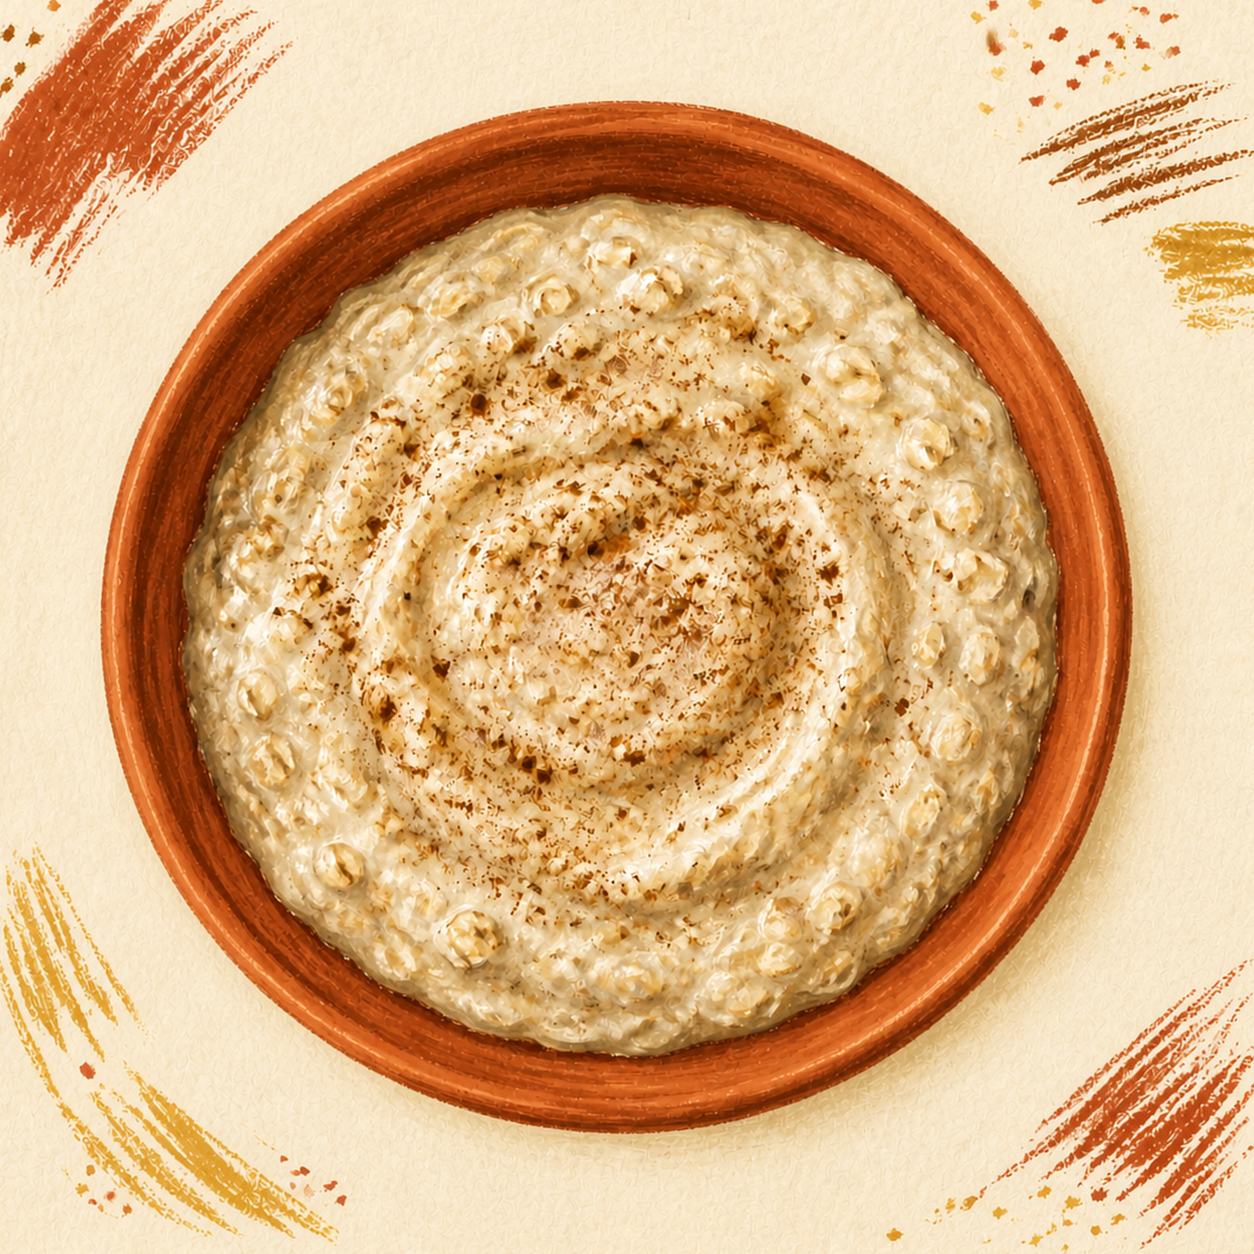
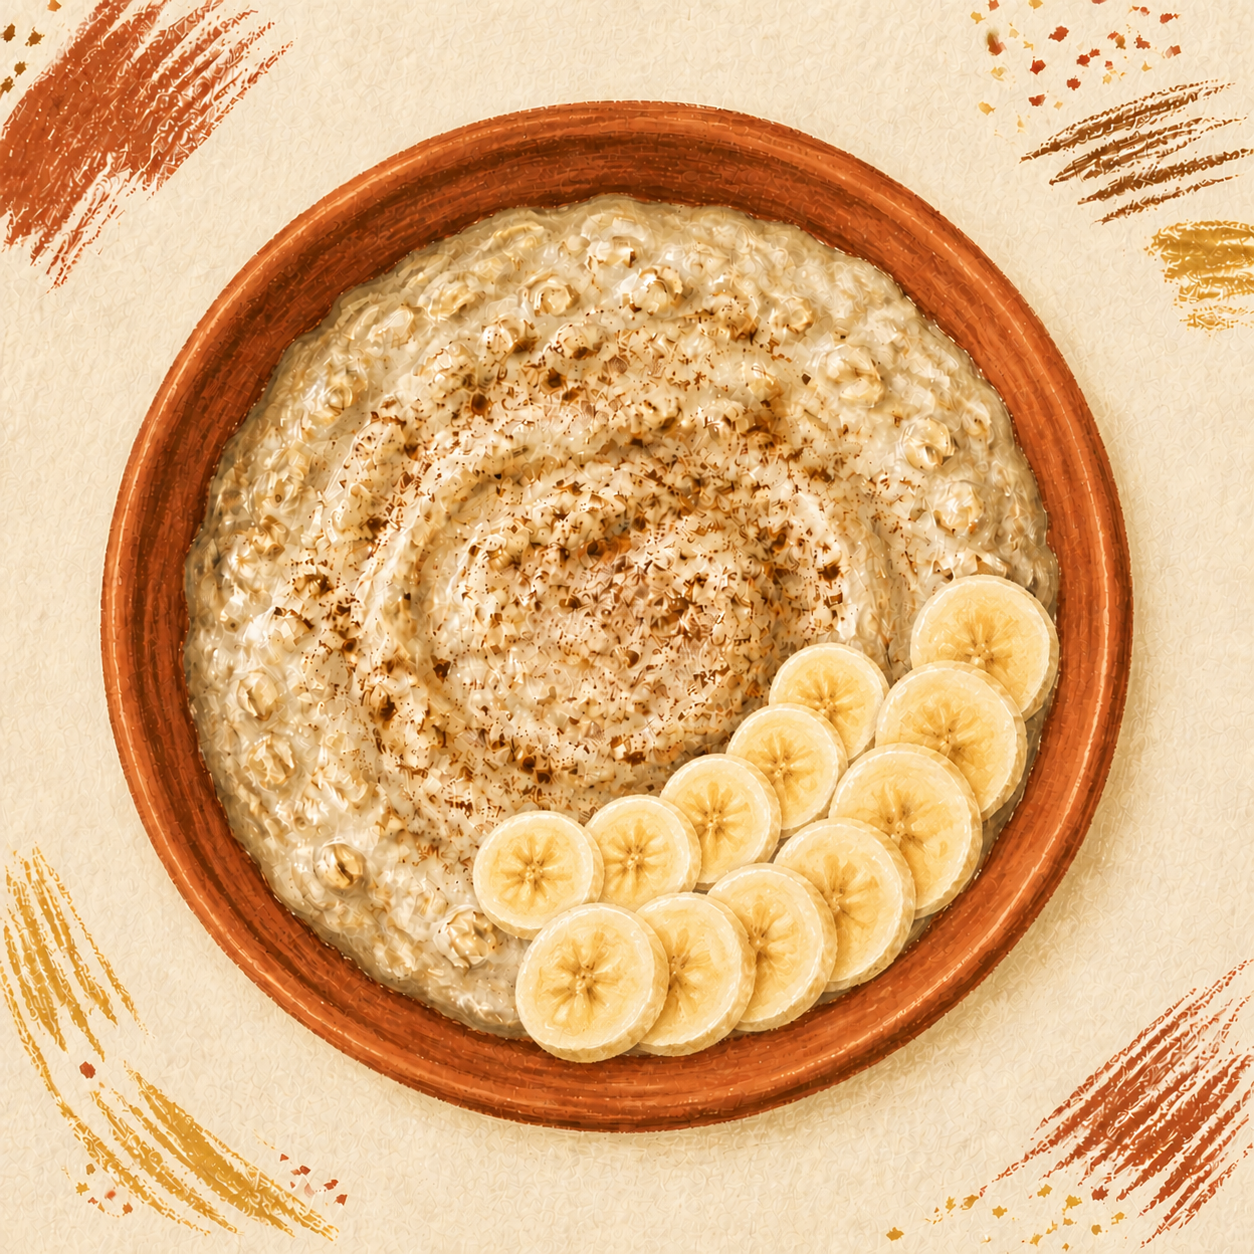
Refine recipe pages and search layout

diff --git a/src/components/RecipeSearch.tsx b/src/components/RecipeSearch.tsx
@@ -51,33 +51,34 @@ export default function RecipeSearch({ cards, searchPlaceholder, noResults, minu
 
   return (
     <div>
-      <div className="relative ml-auto w-[min(340px,100%)]">
-        <span className="absolute left-4 top-1/2 flex -translate-y-1/2 text-accent-700">
-          <svg
-            viewBox="0 0 24 24"
-            width="16"
-            height="16"
-            fill="none"
-            stroke="currentColor"
-            strokeWidth="2.75"
-            strokeLinecap="round"
-            strokeLinejoin="round"
-          >
-            <circle cx="11" cy="11" r="7"></circle>
-            <line x1="21" y1="21" x2="16.65" y2="16.65"></line>
-          </svg>
-        </span>
-        <input
-          type="text"
-          value={query}
-          onChange={(e) => setQuery(e.target.value)}
-          placeholder={searchPlaceholder}
-          aria-label={searchPlaceholder}
-          className="w-full rounded-xl border-[1.5px] border-ink bg-surface py-2 pl-10 pr-3 text-sm"
-        />
+      <div className="mt-8 grid grid-cols-[repeat(auto-fit,minmax(min(420px,100%),1fr))] items-end gap-4">
+        <h2 className="m-0 font-heading text-xl text-ink">{recipeHeading}</h2>
+        <div className="relative w-full">
+          <span className="absolute left-4 top-1/2 flex -translate-y-1/2 text-accent-700">
+            <svg
+              viewBox="0 0 24 24"
+              width="16"
+              height="16"
+              fill="none"
+              stroke="currentColor"
+              strokeWidth="2.75"
+              strokeLinecap="round"
+              strokeLinejoin="round"
+            >
+              <circle cx="11" cy="11" r="7"></circle>
+              <line x1="21" y1="21" x2="16.65" y2="16.65"></line>
+            </svg>
+          </span>
+          <input
+            type="text"
+            value={query}
+            onChange={(e) => setQuery(e.target.value)}
+            placeholder={searchPlaceholder}
+            aria-label={searchPlaceholder}
+            className="w-full rounded-lg border-[1.5px] border-ink bg-surface py-2 pl-10 pr-3 text-sm"
+          />
+        </div>
       </div>
-
-      <h2 className="mb-2 mt-8 font-heading text-xl text-ink/75">{recipeHeading}</h2>
 
       {results.length === 0 ? (
         <p className="py-14 text-center opacity-70">{noResults}</p>
@@ -87,7 +88,7 @@ export default function RecipeSearch({ cards, searchPlaceholder, noResults, minu
             <a
               key={card.href}
               href={card.href}
-              className="flex items-stretch gap-4 rounded-2xl bg-surface p-4 text-ink no-underline"
+              className="flex items-stretch gap-4 rounded-lg bg-surface p-4 text-ink no-underline"
             >
               {card.image ? (
                 <img
@@ -96,10 +97,10 @@ export default function RecipeSearch({ cards, searchPlaceholder, noResults, minu
                   width={card.image.width}
                   height={card.image.height}
                   loading="lazy"
-                  className="h-[170px] w-[150px] flex-none rounded-[14px] object-cover"
+                  className="h-[170px] w-[150px] flex-none rounded-lg object-cover"
                 />
               ) : (
-                <div className="grid h-[170px] w-[150px] flex-none place-content-center rounded-[14px] bg-accent-2-100 p-3 text-center">
+                <div className="grid h-[170px] w-[150px] flex-none place-content-center rounded-lg bg-accent-2-100 p-3 text-center">
                   <span className="font-heading text-base text-ink/40">{card.title}</span>
                 </div>
               )}
@@ -108,14 +109,14 @@ export default function RecipeSearch({ cards, searchPlaceholder, noResults, minu
                 <p className="m-0 text-sm text-ink/75">{card.summary}</p>
                 <div className="mt-auto flex flex-wrap items-center gap-2">
                   {card.origin && (
-                    <span className="rounded-[10px] bg-accent-2 px-3 py-1 text-[11.5px] font-semibold text-ink">
+                    <span className="rounded-lg bg-accent-2 px-3 py-1 text-[11.5px] font-semibold text-ink">
                       {card.origin}
                     </span>
                   )}
-                  <span className="rounded-[10px] border-[1.5px] border-ink px-3 py-1 text-[11.5px] font-semibold text-ink">
+                  <span className="rounded-lg border-[1.5px] border-ink px-3 py-1 text-[11.5px] font-semibold text-ink">
                     {prep}: {card.prepTime} {minutes}
                   </span>
-                  <span className="rounded-[10px] border-[1.5px] border-ink px-3 py-1 text-[11.5px] font-semibold text-ink">
+                  <span className="rounded-lg border-[1.5px] border-ink px-3 py-1 text-[11.5px] font-semibold text-ink">
                     {total}: {card.totalTime} {minutes}
                   </span>
                 </div>

diff --git a/src/components/IngredientList.tsx b/src/components/IngredientList.tsx
@@ -26,7 +26,7 @@ export default function IngredientList({ ingredients, servings, labels }: Props)
   let lastGroup: string | undefined;
 
   return (
-    <div className="rounded-2xl bg-surface p-6 shadow-elev-sm">
+    <div className="rounded-lg bg-surface p-6 shadow-elev-sm">
       <div className="flex flex-wrap items-center justify-between gap-3">
         <h2 className="m-0 font-heading text-[26px]">{labels.heading}</h2>
         <div className="flex items-center gap-2">
@@ -36,7 +36,7 @@ export default function IngredientList({ ingredients, servings, labels }: Props)
             onClick={() => change(-1)}
             disabled={count <= servings.min}
             aria-label="-"
-            className="grid h-9 w-9 cursor-pointer place-content-center rounded-xl border-[1.5px] border-ink text-ink hover:bg-accent-100 disabled:cursor-not-allowed disabled:opacity-45"
+            className="grid h-9 w-9 cursor-pointer place-content-center rounded-lg border-[1.5px] border-ink text-ink hover:bg-accent-100 disabled:cursor-not-allowed disabled:opacity-45"
           >
             <svg viewBox="0 0 24 24" width="14" height="14" fill="none" stroke="currentColor" strokeWidth="2.75" strokeLinecap="round">
               <line x1="5" y1="12" x2="19" y2="12"></line>
@@ -48,7 +48,7 @@ export default function IngredientList({ ingredients, servings, labels }: Props)
             onClick={() => change(1)}
             disabled={count >= servings.max}
             aria-label="+"
-            className="grid h-9 w-9 cursor-pointer place-content-center rounded-xl border-[1.5px] border-ink text-ink hover:bg-accent-100 disabled:cursor-not-allowed disabled:opacity-45"
+            className="grid h-9 w-9 cursor-pointer place-content-center rounded-lg border-[1.5px] border-ink text-ink hover:bg-accent-100 disabled:cursor-not-allowed disabled:opacity-45"
           >
             <svg viewBox="0 0 24 24" width="14" height="14" fill="none" stroke="currentColor" strokeWidth="2.75" strokeLinecap="round">
               <line x1="12" y1="5" x2="12" y2="19"></line>
@@ -76,7 +76,7 @@ export default function IngredientList({ ingredients, servings, labels }: Props)
                 </span>
                 <span className="flex-1">{ing.name}</span>
                 {ing.optional && (
-                  <span className="rounded-[10px] border-[1.5px] border-accent-2-700 px-2.5 py-0.5 text-[11px] font-semibold text-accent-2-700">
+                  <span className="rounded-lg border-[1.5px] border-accent-2-700 px-2.5 py-0.5 text-[11px] font-semibold text-accent-2-700">
                     {labels.optional}
                   </span>
                 )}

diff --git a/src/data/recipes/carrot-cake.ts b/src/data/recipes/carrot-cake.ts
@@ -8,6 +8,7 @@ const recipe: Recipe = {
   totalTime: 110,
   picture,
   servings: { default: 8, min: 4, max: 16 },
+  spotifyTrackId: '5bGMMNxjvlledmzq9dItvf',
   ingredients: [
     {
       amount: 2,

diff --git a/src/styles/global.css b/src/styles/global.css
@@ -56,7 +56,7 @@ h4 {
   font-size: 12px;
   font-weight: 600;
   padding: 5px 14px;
-  border-radius: 10px;
+  border-radius: 8px;
 }
 
 /* Print: keep colors, hide chrome (header, back link). */
